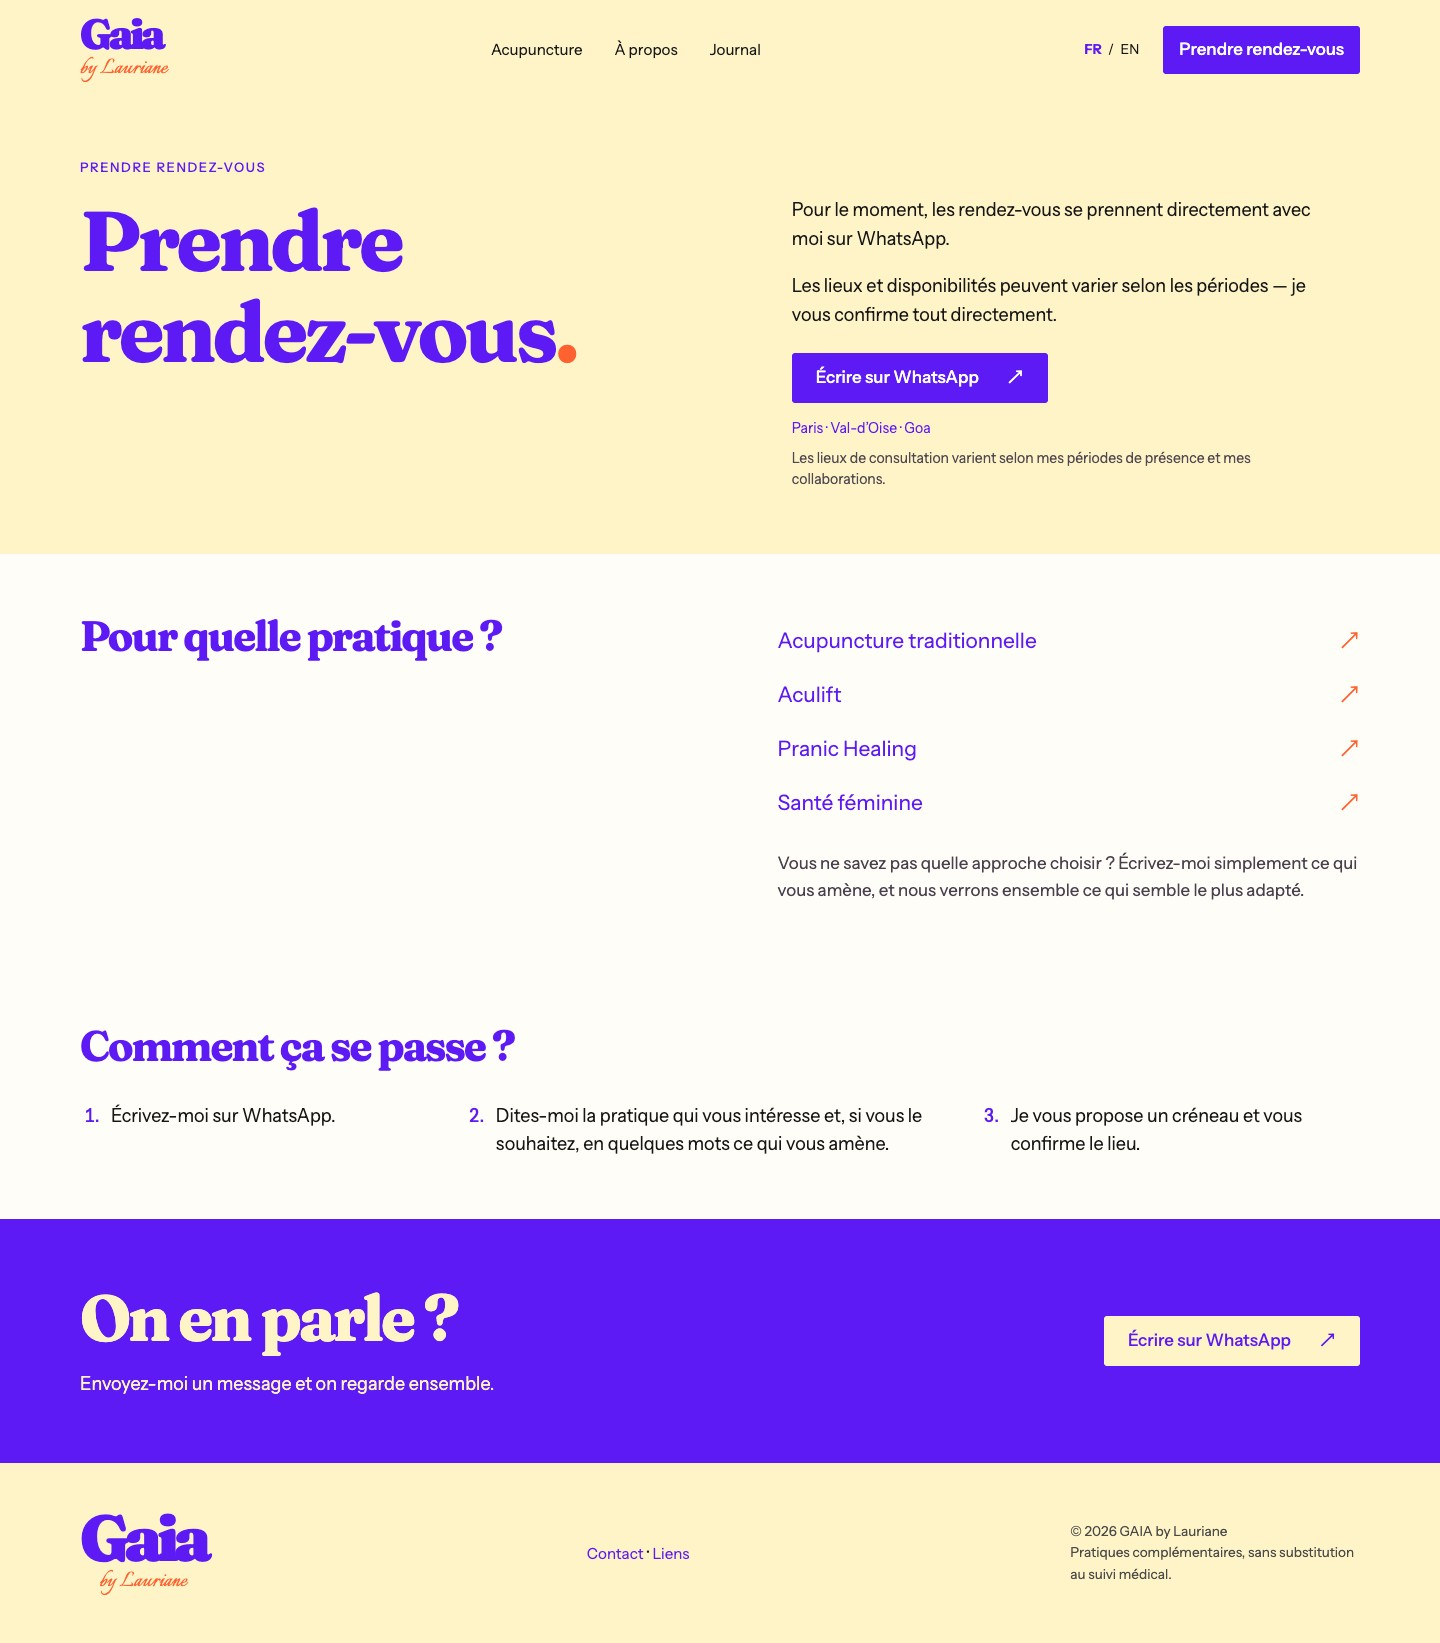
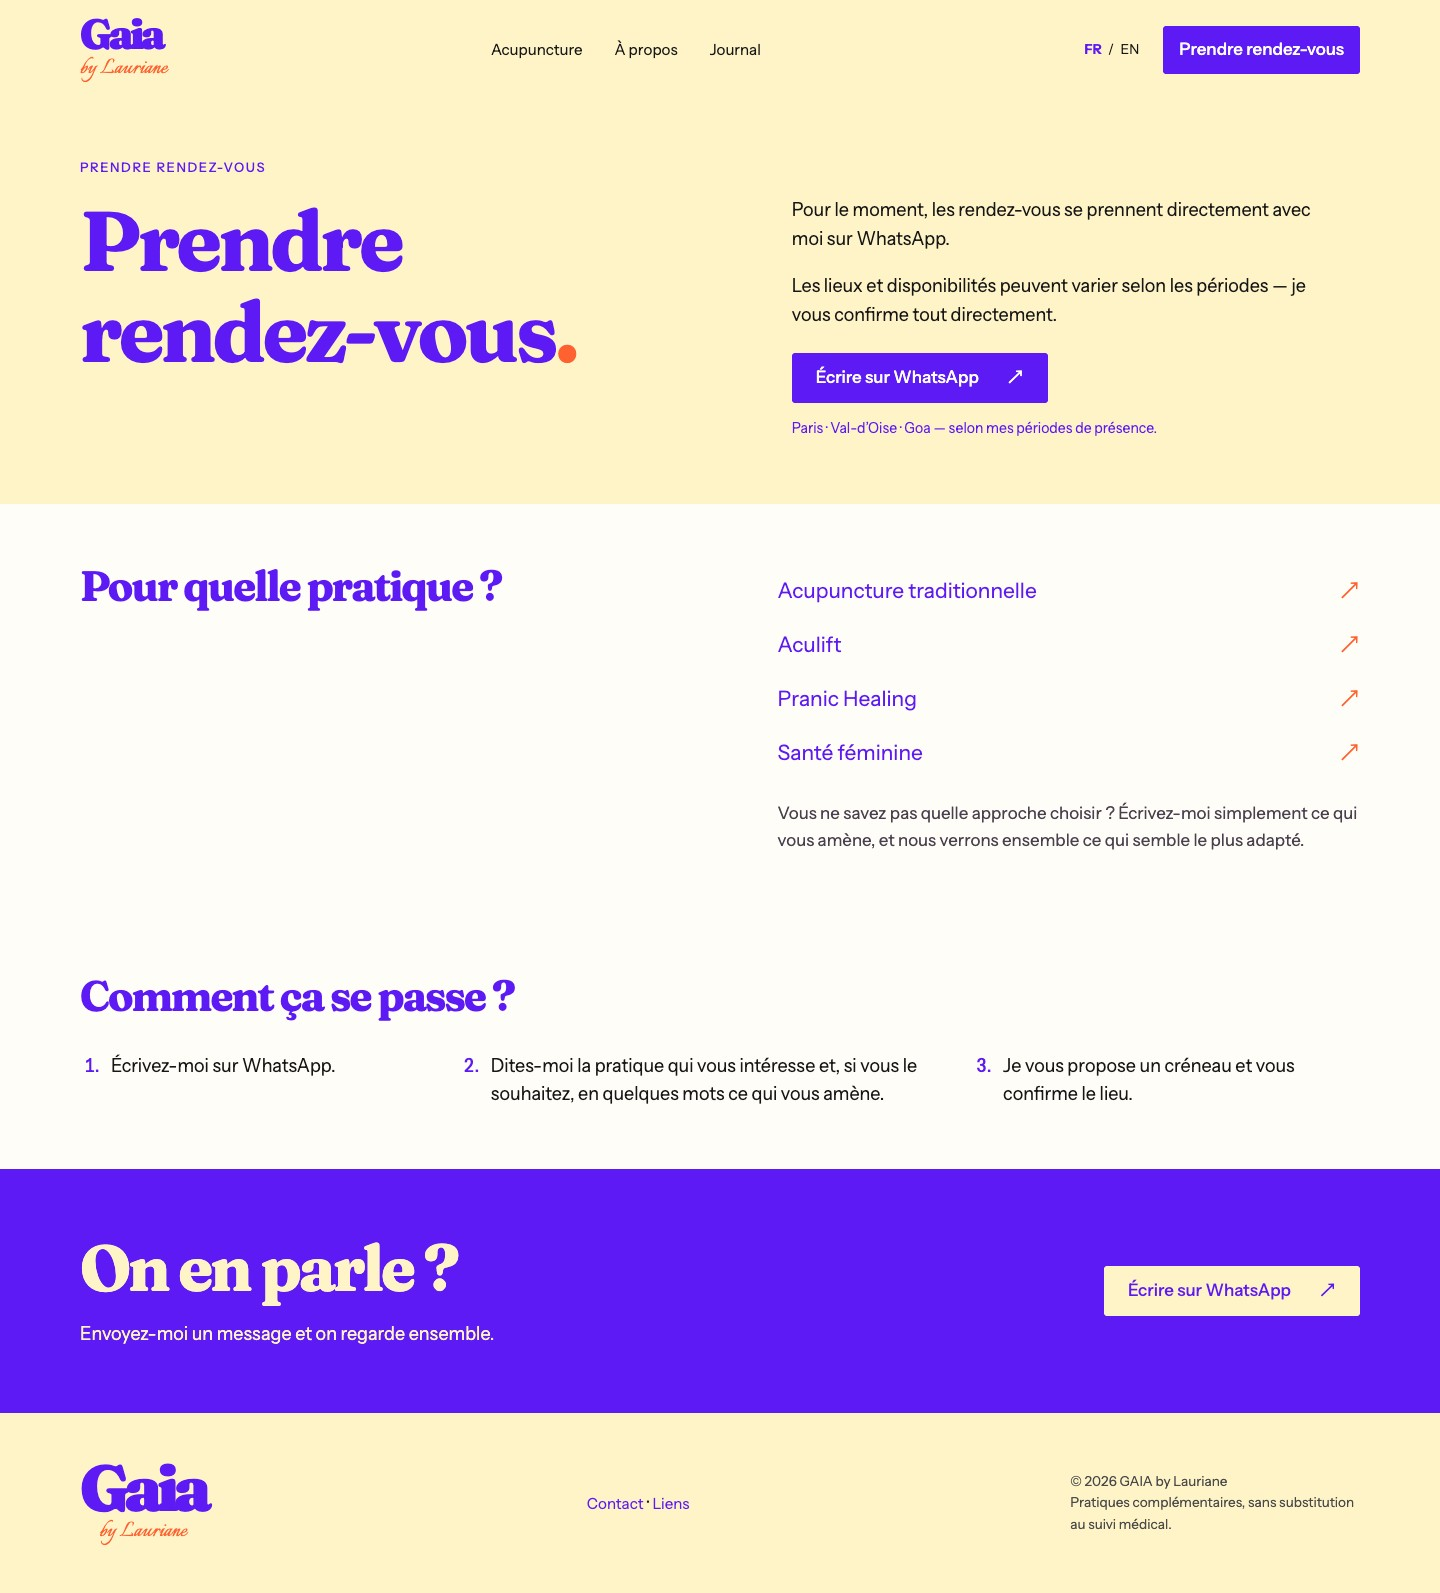
Update Site source

diff --git a/src/styles/booking-system.css b/src/styles/booking-system.css
@@ -14,5 +14,16 @@
 .bk-closing{background:var(--violet);display:flex;align-items:center;justify-content:space-between;gap:40px;padding-top:64px;padding-bottom:64px}.bk-closing h2{color:var(--bk-cream);font-size:clamp(42px,4.8vw,64px)}.bk-closing p{color:var(--bk-cream);font-size:18px;margin-top:18px}.booking-page .bk-closing .button{background:var(--bk-cream);color:var(--violet);flex-shrink:0}.booking-page a:focus-visible{outline:3px solid var(--orange);outline-offset:5px}.booking-page [aria-disabled=true]{opacity:.65;cursor:default}
 @media(max-width:800px){.bk-hero{display:block;padding-top:32px;padding-bottom:40px}.bk-desktop-break{display:none}.bk-intro{margin-top:24px;font-size:17px}.bk-hero .button{margin-top:22px}.bk-section{padding-top:40px;padding-bottom:40px}.bk-practices{grid-template-columns:1fr;gap:24px}.bk-practices a{font-size:19px;min-height:52px}.bk-how ol{grid-template-columns:1fr;gap:20px;margin:26px 0 28px;font-size:17px}.bk-closing{display:block}.bk-closing .button{margin-top:26px}.bk-closing p{font-size:17px}.booking-page .bk-label{font-size:12px;margin-bottom:16px}}
 
-.booking-page .bk-location-note{grid-column:2;font-size:14px;line-height:1.5;max-width:500px;margin-top:8px;color:#514951}.bk-practices .bk-note{grid-column:2;margin-top:20px}.bk-practices{row-gap:0}
-@media(max-width:800px){.bk-practices{row-gap:24px}.bk-practices .bk-note{grid-column:1;margin-top:0}.booking-page .bk-location-note{font-size:13px;max-width:350px}.bk-closing .bk-whatsapp{width:100%}}
+.bk-practices .bk-note{grid-column:2;margin-top:20px}.bk-practices{row-gap:0}
+@media(max-width:800px){.bk-practices{row-gap:24px}.bk-practices .bk-note{grid-column:1;margin-top:0}.bk-closing .bk-whatsapp{width:100%}}
+
+/* Small movement and more natural spacing, confined to the booking page. */
+.bk-practices a span{transition:transform 140ms ease-out}
+.bk-practices a:hover span,.bk-practices a:focus-visible span{transform:translateX(4px)}
+.bk-how ol{column-gap:48px;align-items:start}
+.bk-how li{padding-right:12px}
+.booking-page .bk-whatsapp{transition:background-color 140ms ease-out, color 140ms ease-out}
+.booking-page .bk-hero .bk-whatsapp:hover{background:#4711C7}
+.booking-page .bk-closing .bk-whatsapp:hover{background:#FFE6AE;color:var(--violet)}
+@media(max-width:800px){.bk-how ol{row-gap:22px}.bk-how li{padding-right:0}.booking-page .bk-cities{line-height:1.5;max-width:360px}}
+@media(prefers-reduced-motion:reduce){.bk-practices a span,.booking-page .bk-whatsapp{transition:none}.bk-practices a:hover span,.bk-practices a:focus-visible span{transform:none}}
